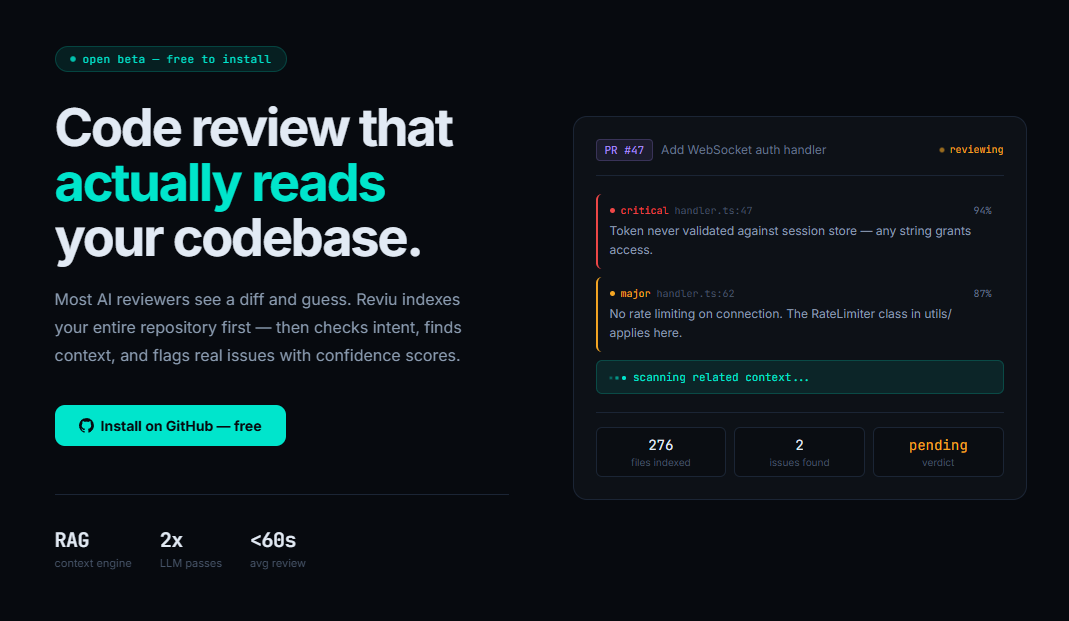
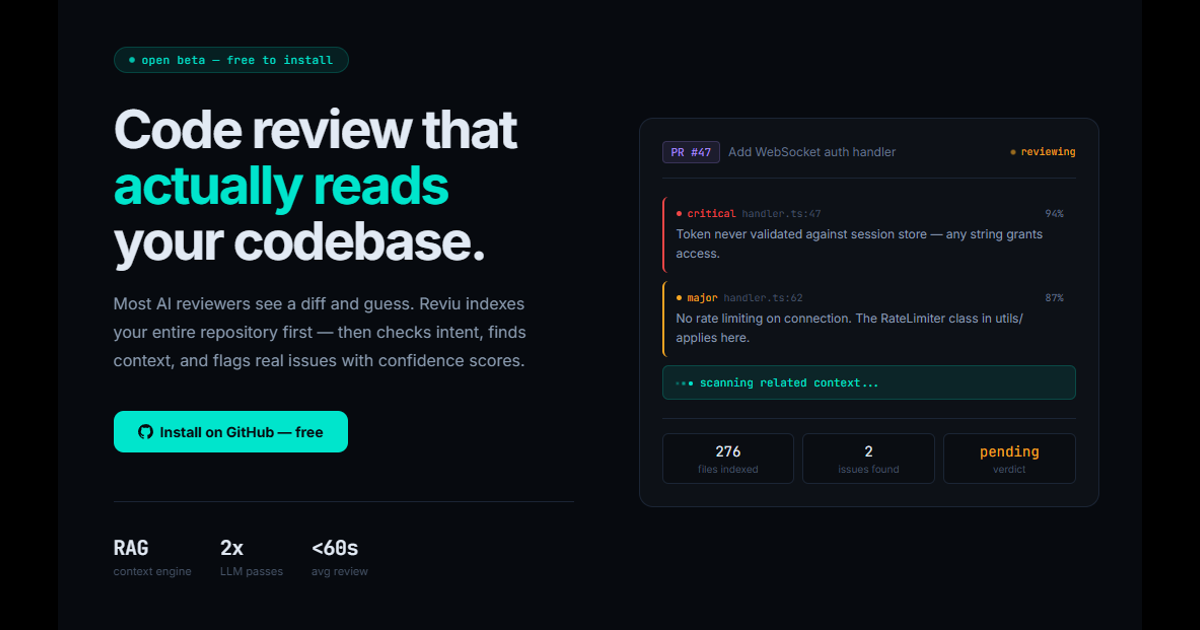
style: replace em dash with pipe in metadata titles

diff --git a/app/layout.tsx b/app/layout.tsx
@@ -2,10 +2,10 @@ import type { Metadata } from "next"
 import "./globals.css"
 
 export const metadata: Metadata = {
-  title: "Reviu — The AI Code Reviewer That Reads Your Entire Codebase",
+  title: "Reviu | The AI Code Reviewer That Reads Your Entire Codebase",
   description: "AI-powered PR reviews that index your entire repository to provide full RAG context, intent verification, and adjustable confidence scoring for every finding.",
   openGraph: {
-    title: "Reviu — The AI Code Reviewer That Reads Your Entire Codebase",
+    title: "Reviu | The AI Code Reviewer That Reads Your Entire Codebase",
     description: "AI-powered PR reviews that index your entire repository to provide full RAG context, intent verification, and adjustable confidence scoring for every finding.",
     url: "https://reviu-dashboard.vercel.app",
     images: [
@@ -18,7 +18,7 @@ export const metadata: Metadata = {
   },
   twitter: {
     card: "summary_large_image",
-    title: "Reviu — The AI Code Reviewer That Reads Your Entire Codebase",
+    title: "Reviu | The AI Code Reviewer That Reads Your Entire Codebase",
     description: "AI-powered PR reviews that index your entire repository to provide full RAG context, intent verification, and adjustable confidence scoring for every finding.",
     images: ["https://reviu-dashboard.vercel.app/preview.png"],
   },